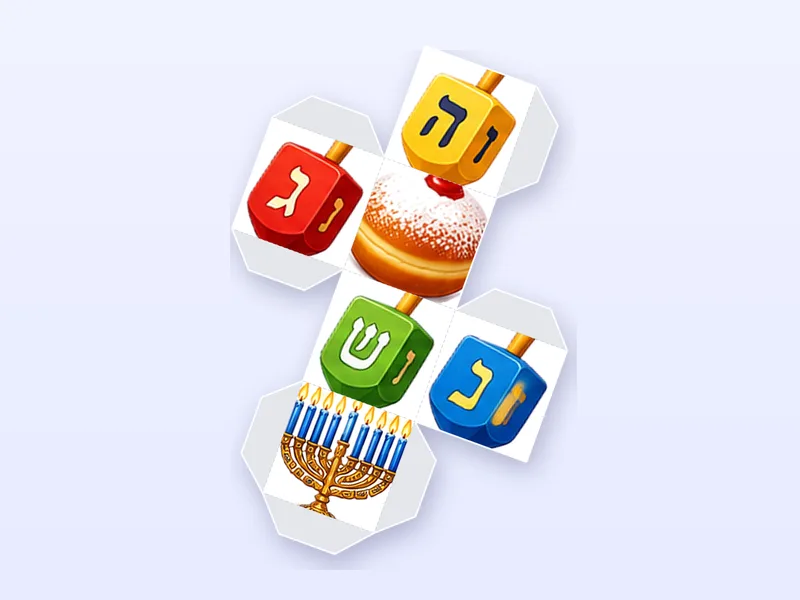
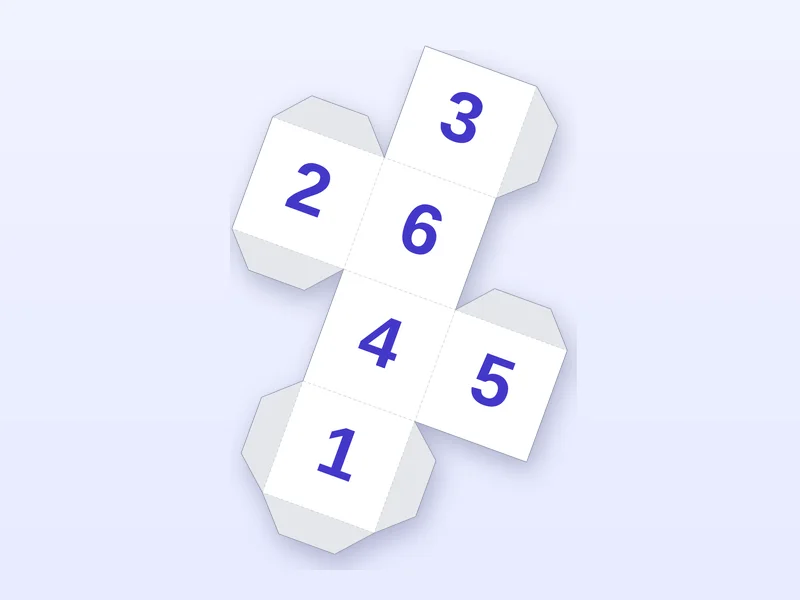
אתר: תמונת הקובייה עם מספרים
Claude-Session: https://claude.ai/code/session_01694pSE2a7KruBRUYptHFg2

diff --git a/games/index.html b/games/index.html
@@ -274,7 +274,7 @@
     <a href="../studio/?p=memory"><img src="../images/games/memory.webp" alt="משחק זיכרון מתמונות" width="800" height="600" loading="lazy"><i>🧠</i><b>משחק זיכרון</b><span>זוגות מהתמונות שלכם</span></a>
     <a href="../studio/?p=quartets"><img src="../images/games/quartets.webp" alt="משחק רביעיות אישי" width="800" height="600" loading="lazy"><i>👨👩👧👦</i><b>רביעיות</b><span>סדרות של 4 — משפחה, כיתה, חגים</span></a>
     <a href="../studio/?p=domino"><img src="../images/games/domino.webp" alt="דומינו עם תמונות" width="800" height="600" loading="lazy"><i>🁫</i><b>דומינו</b><span>קלאסי, רכבת מקסיקנית ומשולשים</span></a>
-    <a href="../studio/?p=dice"><img src="../images/games/dice.webp" alt="קובייה עם תמונות" width="800" height="600" loading="lazy"><i>🎲</i><b>קוביות</b><span>4 עד 20 פאות עם תמונות או מילים</span></a>
+    <a href="../studio/?p=dice"><img src="../images/games/dice.webp" alt="קובייה עם מספרים להדפסה" width="800" height="600" loading="lazy"><i>🎲</i><b>קוביות</b><span>4 עד 20 פאות עם תמונות או מילים</span></a>
     <a href="../studio/?p=puzzle"><img src="../images/games/puzzle.webp" alt="פאזל מתמונה" width="800" height="600" loading="lazy"><i>🧩</i><b>פאזל</b><span>6 עד 200 חלקים מתמונה שלכם</span></a>
     <a href="../dobble.html"><img src="../images/games/matchito.webp" alt="קלפי מאצ׳טו עם פרצופי המשפחה" width="800" height="600" loading="lazy"><i>👀</i><b>מאצ׳טו — מצא את הזהה</b><span>קלפי "מי מוצא ראשון?" להדפסה</span></a>
     <a href="../studio/"><i>✂</i><b>כל הסטודיו</b><span>כולל מדבקות שם ועריכת תמונות</span></a>

diff --git a/card-games.html b/card-games.html
@@ -247,7 +247,7 @@
             <p style="margin-top:.7rem"><a href="studio/?p=puzzle" class="btn btn-sm" style="font-weight:700;color:var(--indigo);text-decoration:underline">לעיצוב המשחק ←</a></p>
           </div>
           <div class="offer-card reveal">
-            <img src="images/games/dice.webp" alt="קובייה עם תמונות לחיתוך וקיפול — פריסה מוכנה להדפסה" width="800" height="600" loading="lazy" style="width:100%;height:auto;border-radius:.8rem;margin-bottom:.6rem">
+            <img src="images/games/dice.webp" alt="קובייה עם מספרים לחיתוך וקיפול — פריסה מוכנה להדפסה, אפשר גם תמונות או מילים" width="800" height="600" loading="lazy" style="width:100%;height:auto;border-radius:.8rem;margin-bottom:.6rem">
             <h3 class="offer-card-title">קוביות עם תמונות</h3>
             <p>קובייה לחיתוך וקיפול: 4 עד 20 פאות, עם מספרים, תמונות או מילים.</p>
             <p style="color:var(--muted);font-size:.82rem;margin-top:.3rem">נקרא גם: קובייה אישית, קוביית משחק להדפסה, קובייה עם תמונות לילדים</p>
